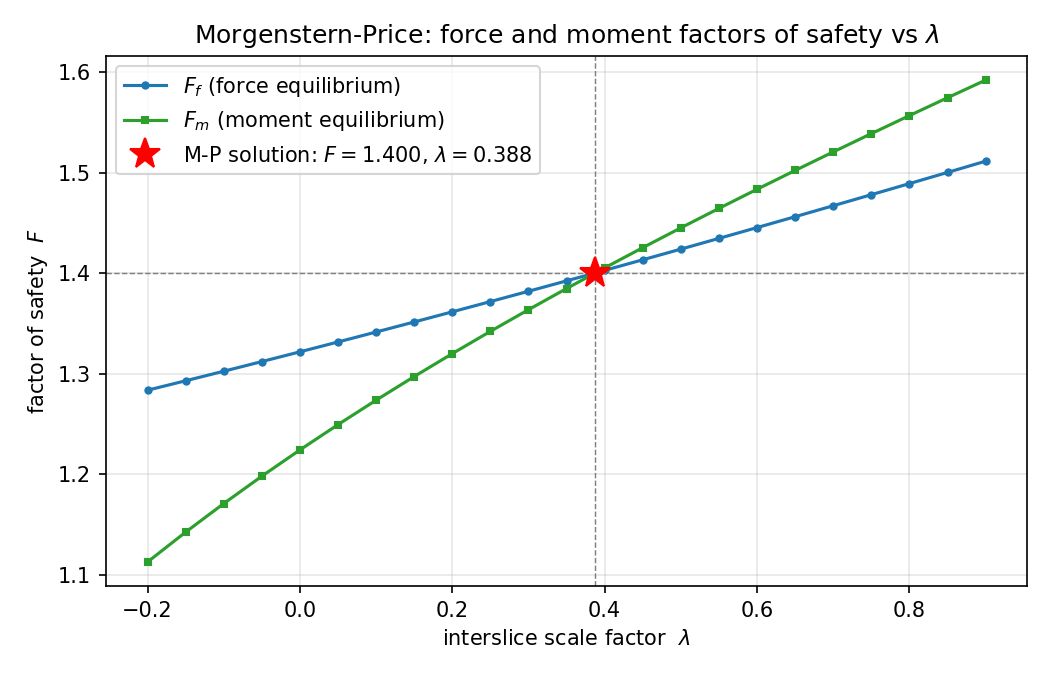
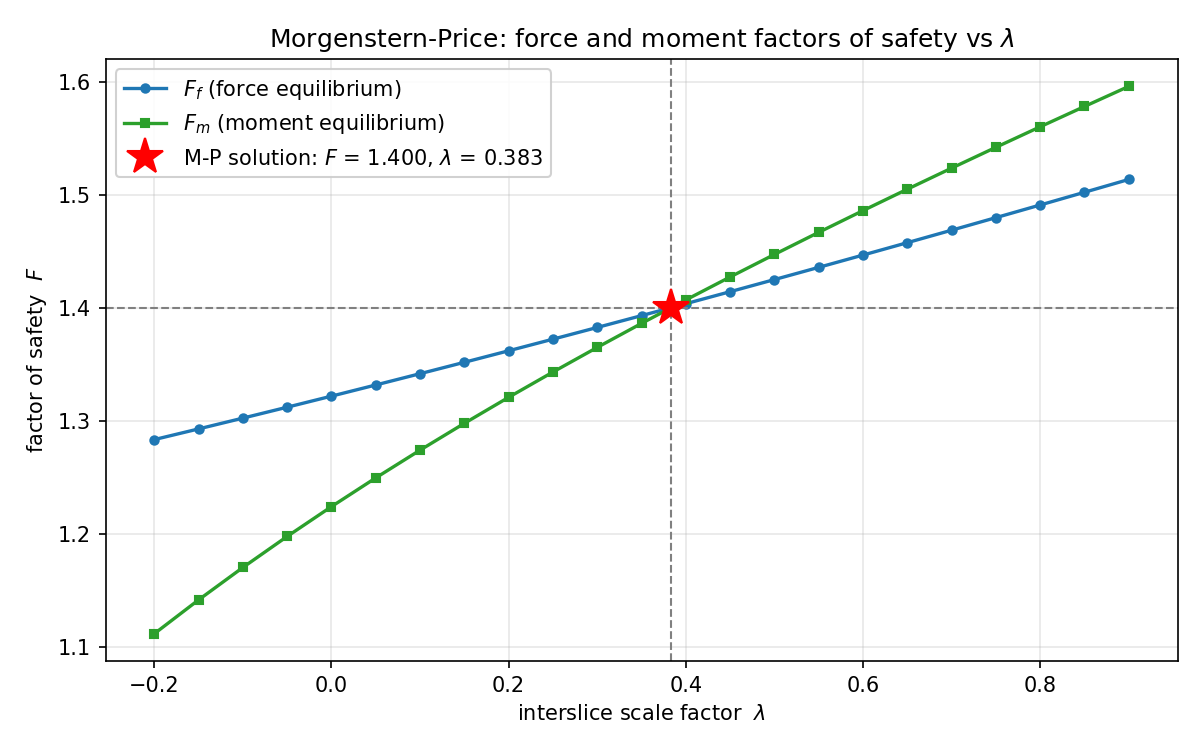
docs(mprice): the F-vs-lambda figure gets its generator
The only LEM docs figure that could not be rebuilt. The tracer follows the
convention of the other image generators (a .py beside the .png): it runs
the benchmark's own circular search on the Arai & Tagyo model (mprice, 50
slices), then at each lambda roots the force residual for F_f and brackets
the moment residual for F_m, and marks the crossing that mprice() returns.

The regenerated figure reproduces the shipped one — same curves, same
crossing, F = 1.400 either way. Lambda now prints 0.383 where the shipped
figure printed 0.388; the plotted crossing is indistinguishable.

Claude-Session: https://claude.ai/code/session_01XjjT2aBxw8gY7EFdpoUcpj

diff --git a/docs/lem/images/mprice_f_vs_lambda.py b/docs/lem/images/mprice_f_vs_lambda.py
@@ -1,0 +1,111 @@
+"""Regenerate mprice_f_vs_lambda.png for docs/lem/mprice.md.
+
+Traces the two Morgenstern-Price factor-of-safety curves on the Arai & Tagyo
+benchmark (verification corpus LEM-2b / VP14): at each interslice scale factor
+lambda, F_f is the factor of safety that zeroes the force residual and F_m the
+one that zeroes the moment residual. The Morgenstern-Price solution is the
+lambda where the two curves cross.
+
+The surface is the critical circle from the benchmark's own circular search
+(method mprice, 50 slices), so the crossing reproduces the published factor of
+safety for that row.
+
+    PYTHONPATH=. python3 docs/lem/images/mprice_f_vs_lambda.py
+"""
+import os
+import warnings
+
+import matplotlib
+matplotlib.use("Agg")
+import matplotlib.pyplot as plt
+import numpy as np
+from scipy.optimize import brentq, newton
+
+from xslope.fileio import load_slope_data
+from xslope.search import circular_search
+from xslope.solve import _mp_extract, _mp_f_vals, _mp_residuals, bishop, mprice
+
+warnings.filterwarnings("ignore")
+
+HERE = os.path.dirname(os.path.abspath(__file__))
+XLSX = os.path.join(HERE, "..", "files", "xslope_arai_tagyo.xlsx")
+OUT = os.path.join(HERE, "mprice_f_vs_lambda.png")
+
+NUM_SLICES = 50
+F_TYPE = "half_sine"
+LAMBDAS = np.linspace(-0.2, 0.9, 23)
+
+
+def critical_slices():
+    """Slice dataframe for the benchmark's critical circle (mprice, 50 slices)."""
+    slope_data = load_slope_data(XLSX)
+    fs_cache, _converged, _path, _cache = circular_search(
+        slope_data, "mprice", num_slices=NUM_SLICES)
+    if not fs_cache:
+        raise RuntimeError("circular_search found no valid surface")
+    return fs_cache[0]["slices"]
+
+
+def curves(slice_df):
+    """(F_f, F_m) at every lambda in LAMBDAS, plus the solved (lambda*, F*)."""
+    right_facing = bool(slice_df.attrs.get(
+        "right_facing", slice_df["y_cb"].values[0] > slice_df["y_cb"].values[-1]))
+    A = _mp_extract(slice_df, right_facing)
+    f_vals = _mp_f_vals(slice_df, F_TYPE)
+
+    ok, res = bishop(slice_df.copy())
+    seed = res["FS"] if ok else 1.5
+
+    def force_res(lam, FS):
+        return _mp_residuals(A, f_vals, lam, FS)[2]
+
+    def moment_res(lam, FS):
+        return _mp_residuals(A, f_vals, lam, FS)[3]
+
+    F_f, F_m = [], []
+    for lam in LAMBDAS:
+        # The force residual is monotonic in FS — a secant from the Bishop seed
+        # lands on its single root.
+        ff = newton(lambda FS: force_res(lam, FS), seed, tol=1e-8, maxiter=60)
+        # The moment residual is multivalued in FS and carries an asymptote, so
+        # it is bracketed around F_f rather than seeded.
+        lo, hi = 0.25 * ff, 2.0 * ff
+        r_lo, r_hi = moment_res(lam, lo), moment_res(lam, hi)
+        while r_lo * r_hi > 0 and lo > 0.05:
+            lo *= 0.8
+            r_lo = moment_res(lam, lo)
+        fm = brentq(lambda FS: moment_res(lam, FS), lo, hi, xtol=1e-10)
+        F_f.append(ff)
+        F_m.append(fm)
+
+    ok, res = mprice(slice_df.copy(), f_type=F_TYPE)
+    if not ok:
+        raise RuntimeError(res)
+    return np.array(F_f), np.array(F_m), res["lambda"], res["FS"]
+
+
+def main():
+    F_f, F_m, lam_star, FS = curves(critical_slices())
+
+    fig, ax = plt.subplots(figsize=(8.0, 5.0))
+    ax.plot(LAMBDAS, F_f, "-o", ms=4, lw=1.6, color="tab:blue",
+            label=r"$F_f$ (force equilibrium)")
+    ax.plot(LAMBDAS, F_m, "-s", ms=4, lw=1.6, color="tab:green",
+            label=r"$F_m$ (moment equilibrium)")
+    ax.axvline(lam_star, color="0.5", ls="--", lw=1.0)
+    ax.axhline(FS, color="0.5", ls="--", lw=1.0)
+    ax.plot([lam_star], [FS], "*", ms=18, color="red", zorder=6,
+            label=rf"M-P solution: $F$ = {FS:.3f}, $\lambda$ = {lam_star:.3f}")
+
+    ax.set_xlabel(r"interslice scale factor  $\lambda$")
+    ax.set_ylabel(r"factor of safety  $F$")
+    ax.set_title(r"Morgenstern-Price: force and moment factors of safety vs $\lambda$")
+    ax.grid(True, alpha=0.3)
+    ax.legend(loc="upper left", framealpha=0.9)
+    fig.tight_layout()
+    fig.savefig(OUT, dpi=150)
+    print(f"wrote {OUT}  (F = {FS:.5f}, lambda = {lam_star:.5f})")
+
+
+if __name__ == "__main__":
+    main()
